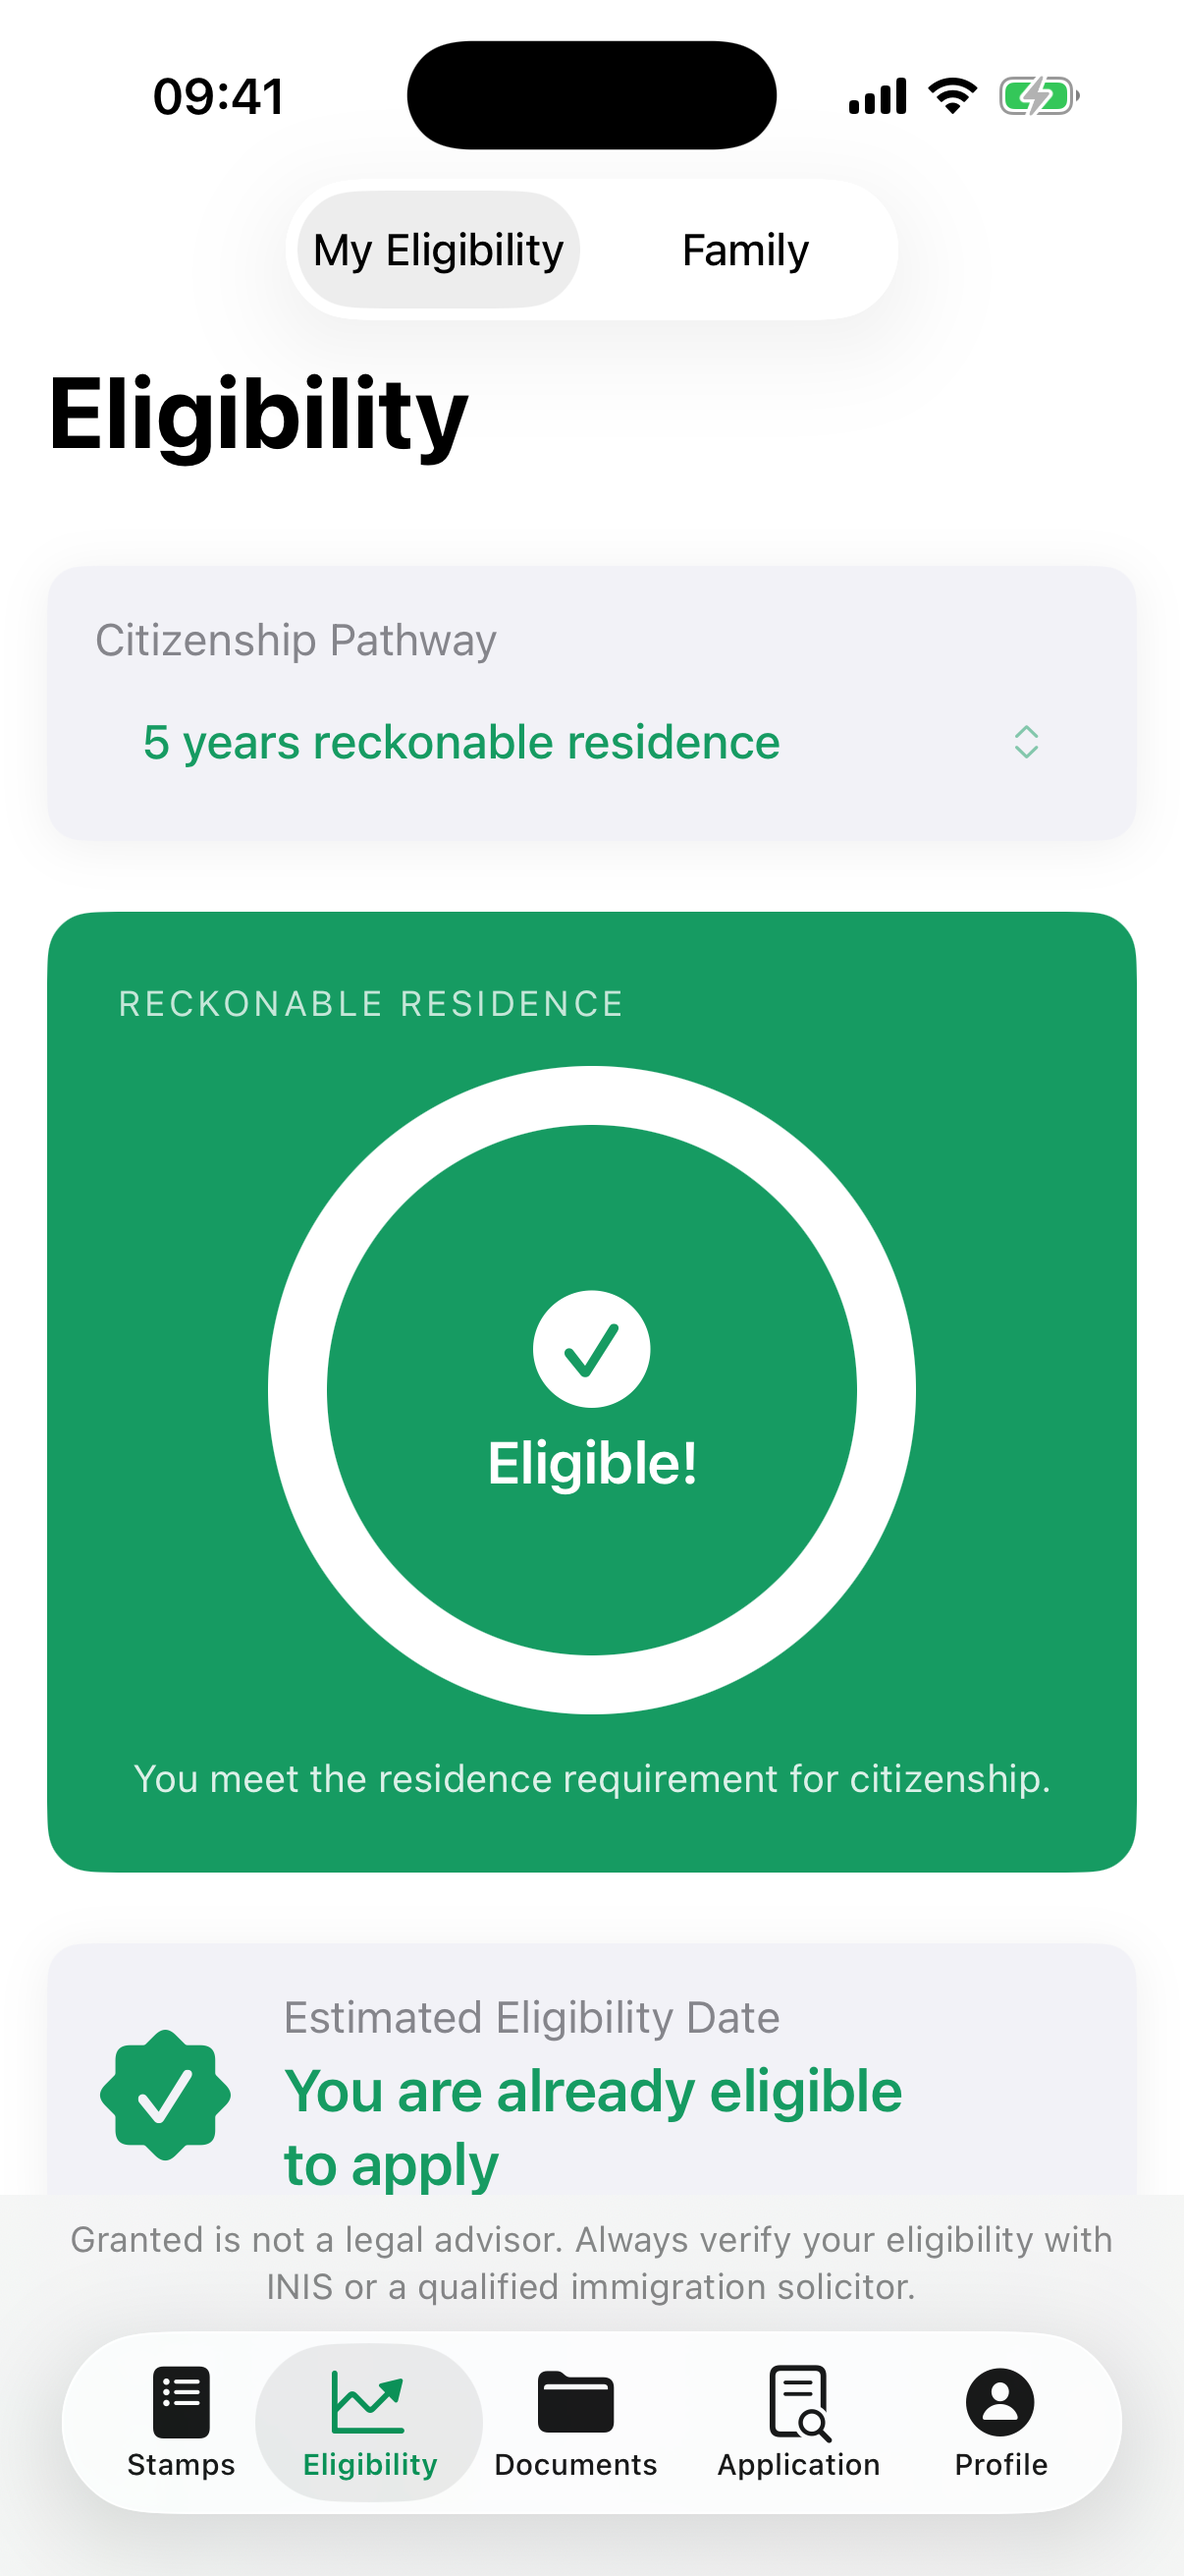
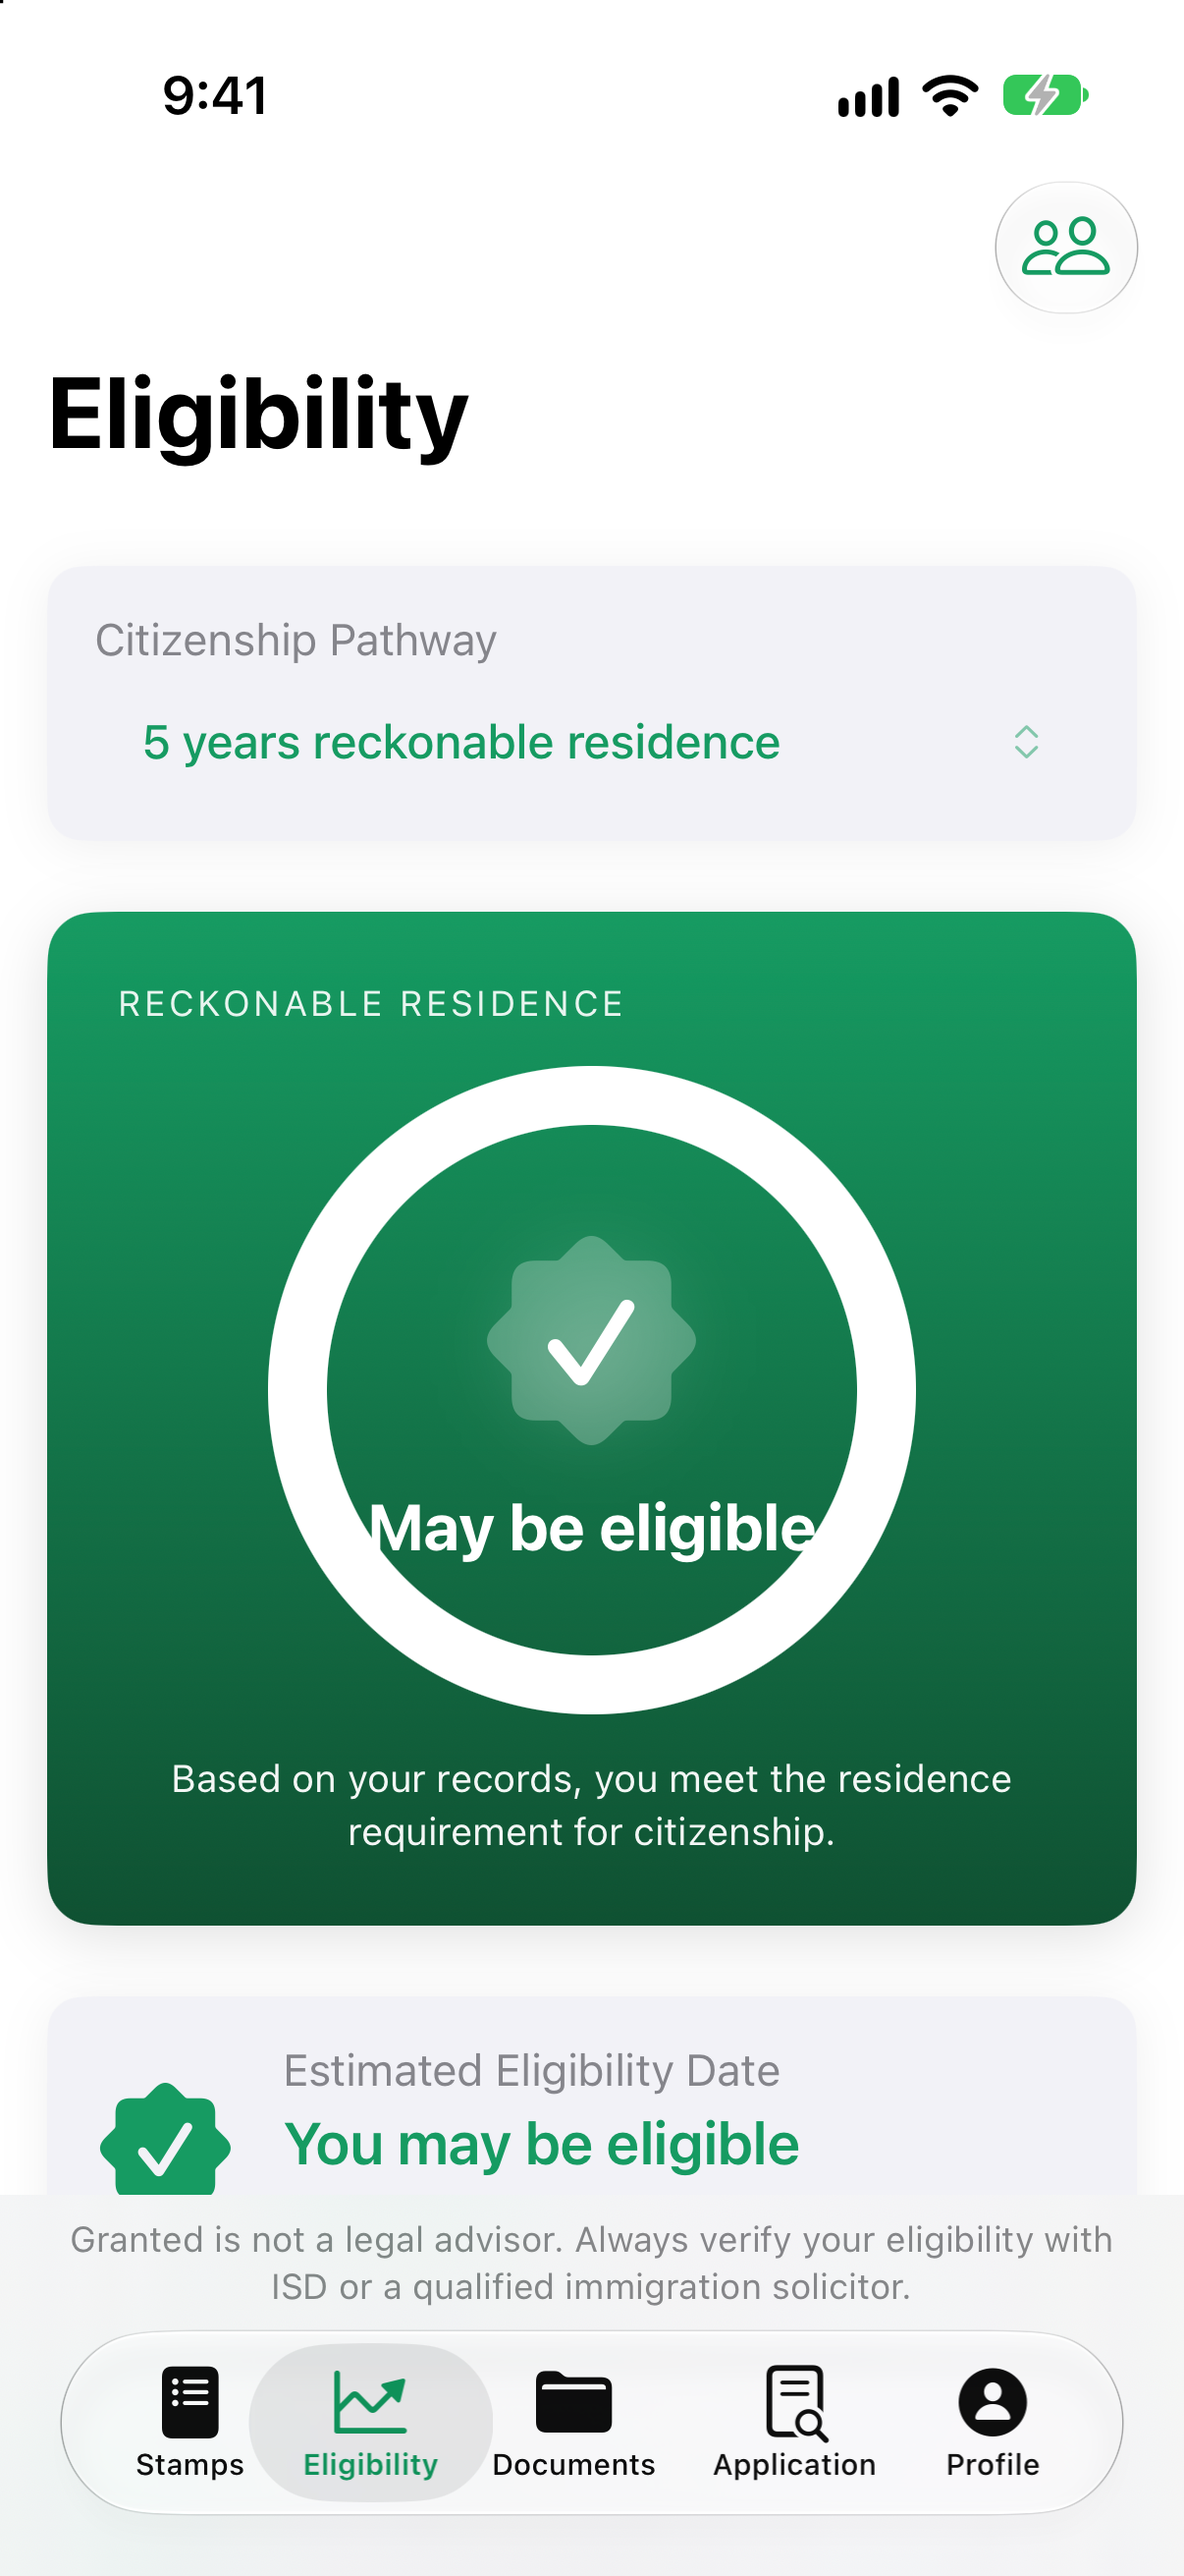
fix: refresh three more gallery screenshots that no longer match the app
Audited the rest of the homepage gallery against the shipped 1.0 build.
Three were stale:

**06_add_stamp** — showed a "Quick Scan · Scan IRP Card 🔒 Pro" row. IRP
card scanning is hidden in 1.0 (FeatureFlags.ocrScanEnabled = false), so the
site was advertising a Pro feature the App Store build does not contain. The
shipped Add Stamp screen starts at Stamp Type; retaken to match.

**02_eligibility** — said "Eligible!" / "You are already eligible to apply"
and cited "INIS". The app now says "May be eligible" / "You may be eligible"
and names ISD. The old wording asserted an eligibility outcome, which is
exactly what the softened copy avoids.

**08_log_trip** — dark mode in an otherwise light gallery, and missing the
line the app now shows: departure and return dates are not counted as
absence days. Retaken in light mode with that note visible.

All three at 1206x2622 from the same iPhone 17 Pro debug build. 02's alt text
updated to match ("4 years accumulated" was never in the new shot).

01_my_stamps and 04_application_top were checked and are still accurate.

diff --git a/index.html b/index.html
@@ -1110,7 +1110,7 @@
 
         <div class="preview-item">
           <div class="preview-phone">
-            <img src="screenshots/02_eligibility.png" alt="Citizenship Eligibility showing 4 years accumulated and estimated eligibility date" loading="lazy" />
+            <img src="screenshots/02_eligibility.png" alt="Citizenship Eligibility showing reckonable residence progress and an estimated eligibility date" loading="lazy" />
           </div>
           <div class="preview-caption">
             <h4>Eligibility Countdown</h4>
